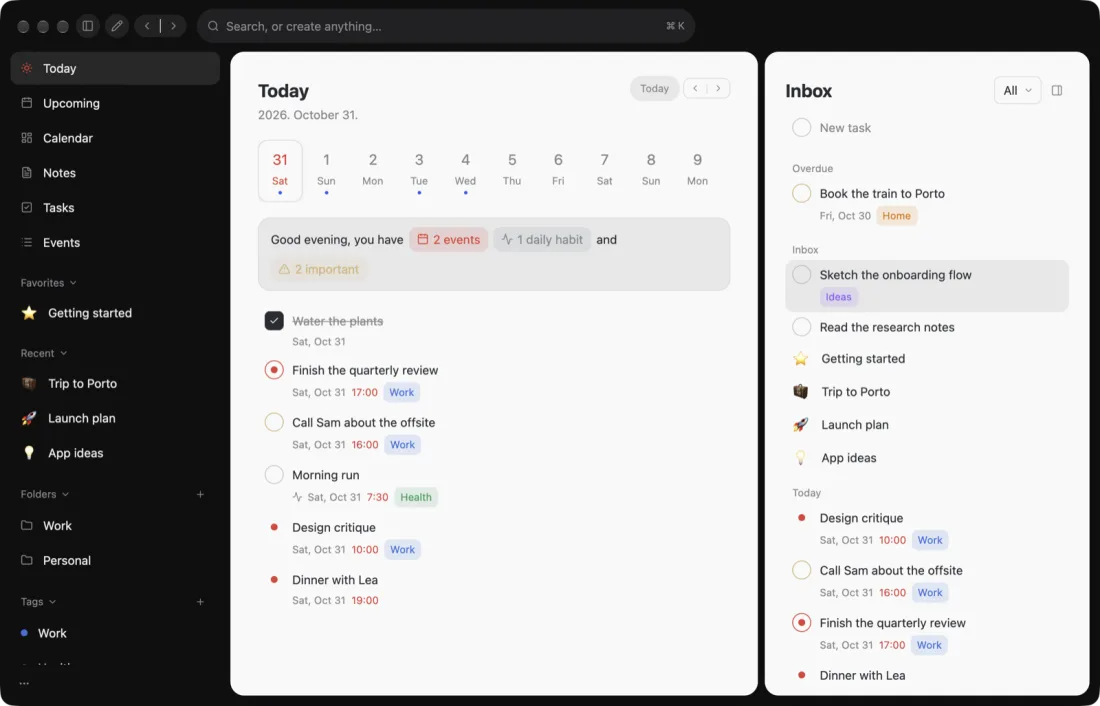
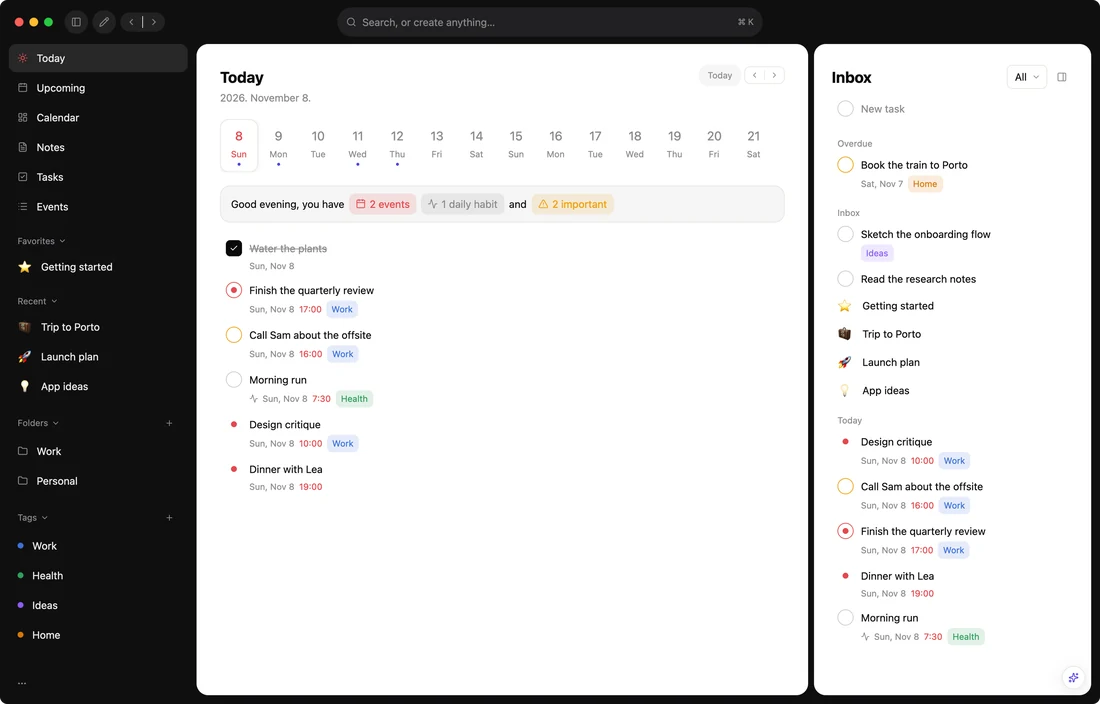
Add Cairn, Hangar, Pilot and Switchyard to the website, and retake Daybook
The four released apps had no plate on moonframe.dev. Each now has one,
taken from a release build in a demo workspace: Cairn fixing a pricing
bug with its edit in Files Changed, Hangar's bays over one repository
with a diff in the terminal, Pilot after pi kept drafts out of a feed,
and Switchyard running a project's tests as a ! command. Daybook's plate
showed the planner from before it started empty; it is retaken with
its sample planner. All five are 1500 by 960 windows.

diff --git a/website/site/index.html b/website/site/index.html
@@ -687,9 +687,13 @@ const APPS = [
   ["stage","Stage","the components on a bento board"],
   ["parlance","Parlance","a desktop chat app with streaming answers"],
   ["cinder","Cinder","coding-agent sessions grouped by repository"],
+  ["cairn","Cairn","chat with a coding agent in your folders, with changes and a terminal"],
+  ["pilot","Pilot","a desktop app for the pi coding agent"],
   ["msgvault","msgvault","a reader for a mail, chat and calendar archive"],
   ["tidings","Tidings","a mail client in two layouts"],
   ["trellis","Trellis","a terminal multiplexer around work trees"],
+  ["hangar","Hangar","parallel coding agents on one repository, each in a worktree of its own"],
+  ["switchyard","Switchyard","a workspace for coding agents across repositories and worktrees"],
   ["lantern","Lantern","a Halloween terminal workspace, with a pumpkin"],
   ["tessel","Tessel","an agents hub with pixel-icon cards"],
   ["helpdesk","Tandem","an IT help desk inbox"],
